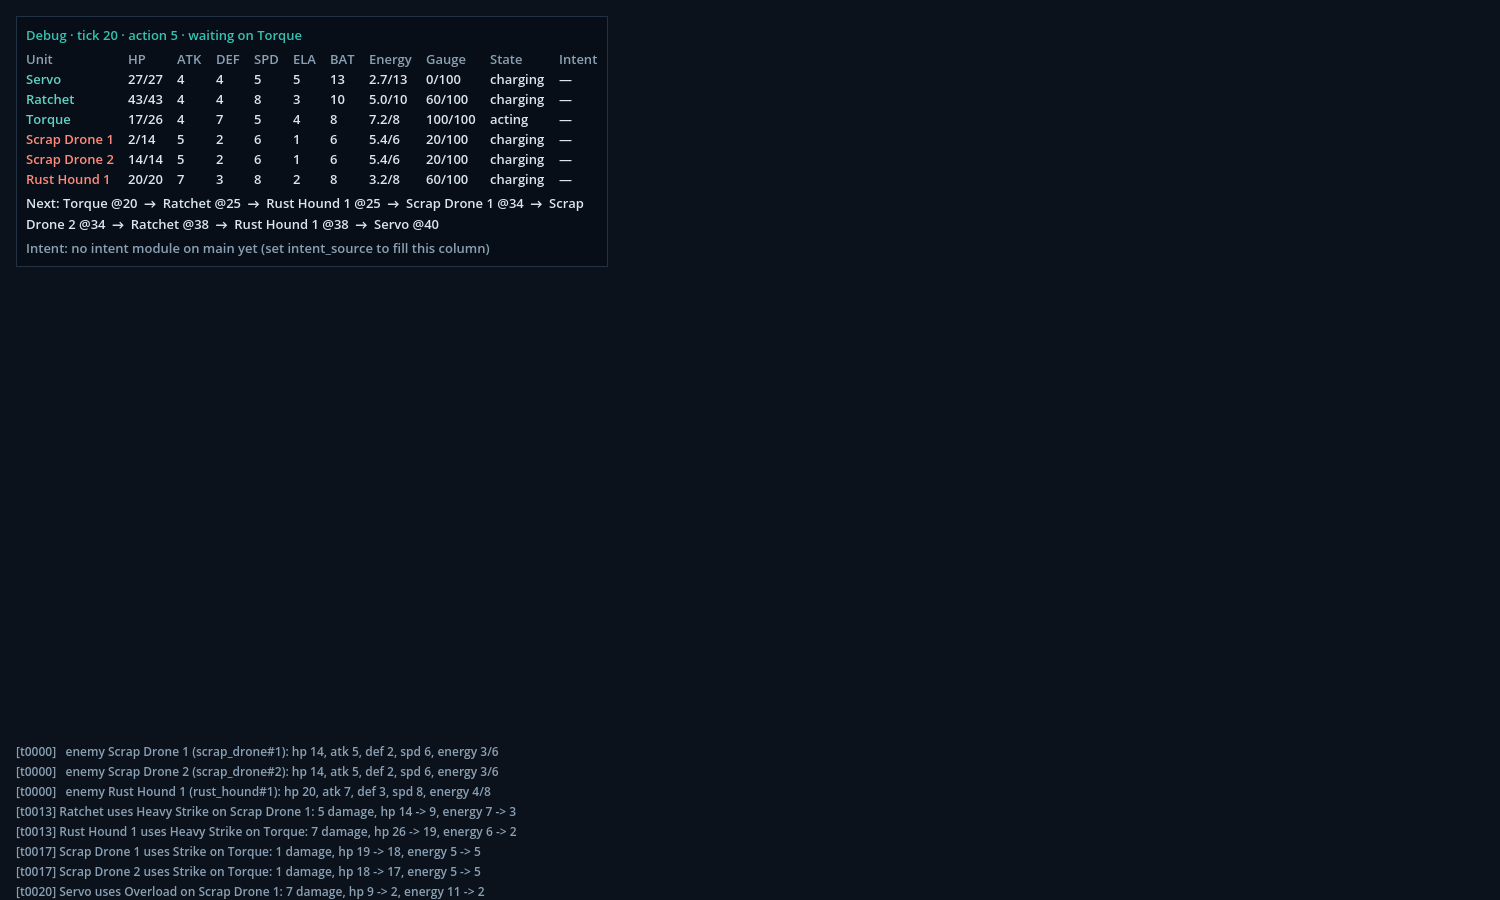
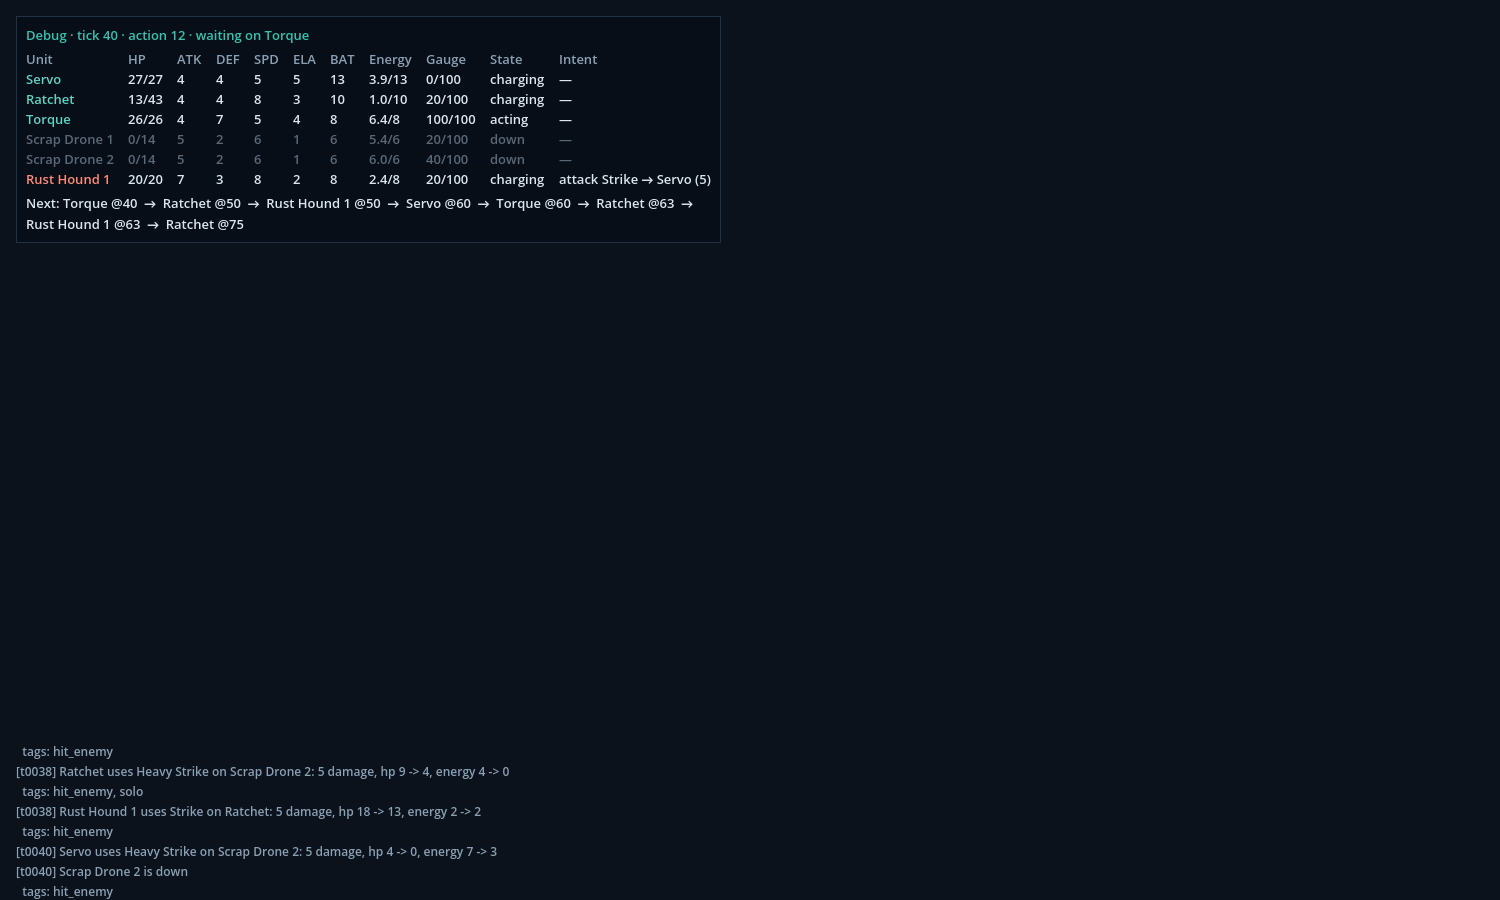
Show planned intents in the debug overlay; add the intent policy
fight/intent/ is on main now: the overlay fills its Intent column from
IntentPlanner by default (intent_source still overrides it), the demo plays
enemies with IntentFightPolicy, and scenarios accept "intent" as a policy.

Claude-Session: https://claude.ai/code/session_01CohgEmRrjaQ3Ueuua3tZef

diff --git a/ui/dev/README.md b/ui/dev/README.md
@@ -7,8 +7,9 @@ Developer screens. Start at `res://ui/dev/dev_menu.tscn`, or run one directly:
 - `scenario_builder.tscn`: pick saved bots and enemies, save a scenario
   (`user://dev/scenarios/`), and run it with the batch simulator.
 - `debug_overlay.gd` (`DebugOverlay`): a standalone node that shows a Fight's
-  units, energy, gauges, timeline and intents, live. Add it to any scene and set
-  `overlay.fight`; F3 toggles it. `debug_overlay_demo.tscn` shows it on a fight
+  units, energy, gauges, timeline and each enemy's planned intent
+  (IntentPlanner), live. Add it to any scene and set `overlay.fight`; F3
+  toggles it. `debug_overlay_demo.tscn` shows it on a fight
   driven headless.
 
 `screenshots/` holds images for pull requests; Godot does not import it.

diff --git a/data/scenarios/README.md b/data/scenarios/README.md
@@ -18,7 +18,7 @@ bots saved from the robot builder to `user://dev/bots/` and `user://dev/enemies/
   "defense_level": 2,                // 0 to 5: enemies drawn, rewards, grid cost
   "squad": [ ...entries... ],
   "enemies": [ ...entries... ],      // optional; leave out to draw from the enemy table
-  "player_policy": "simple",         // "simple" or "random"
+  "player_policy": "simple",         // "simple", "random" or "intent" (IntentFightPolicy)
   "enemy_policy": "simple"
 }
 ```
